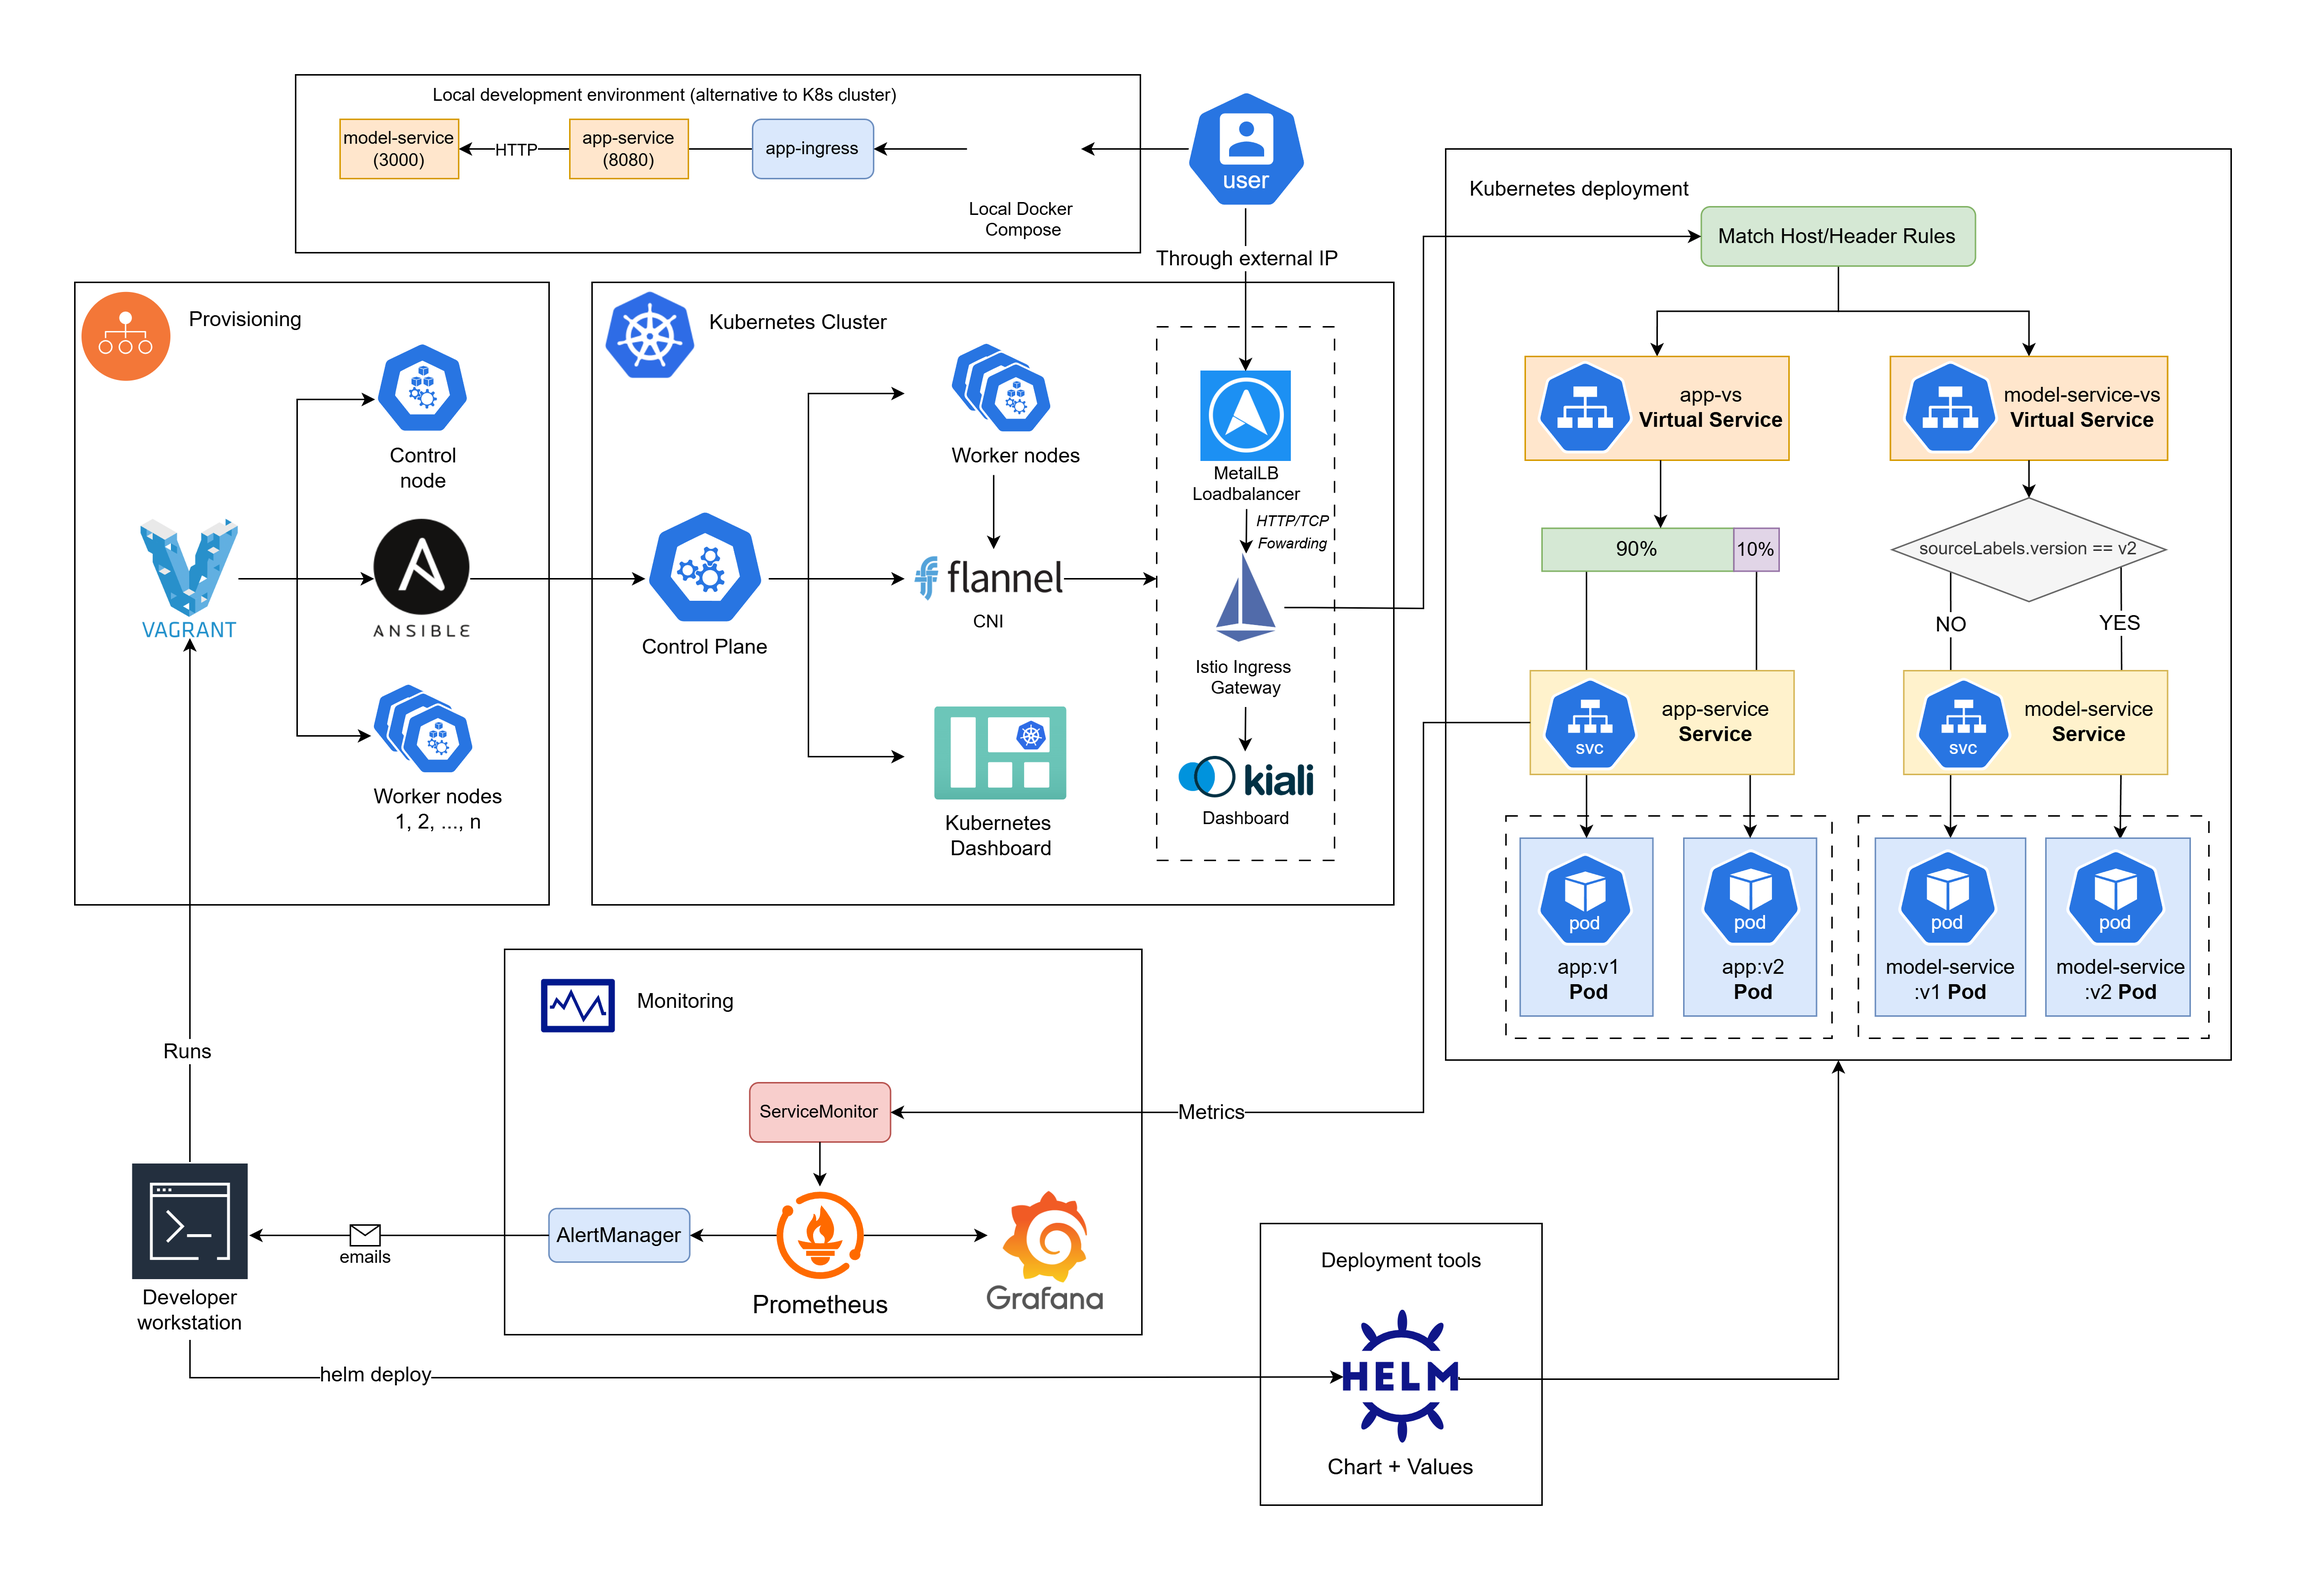
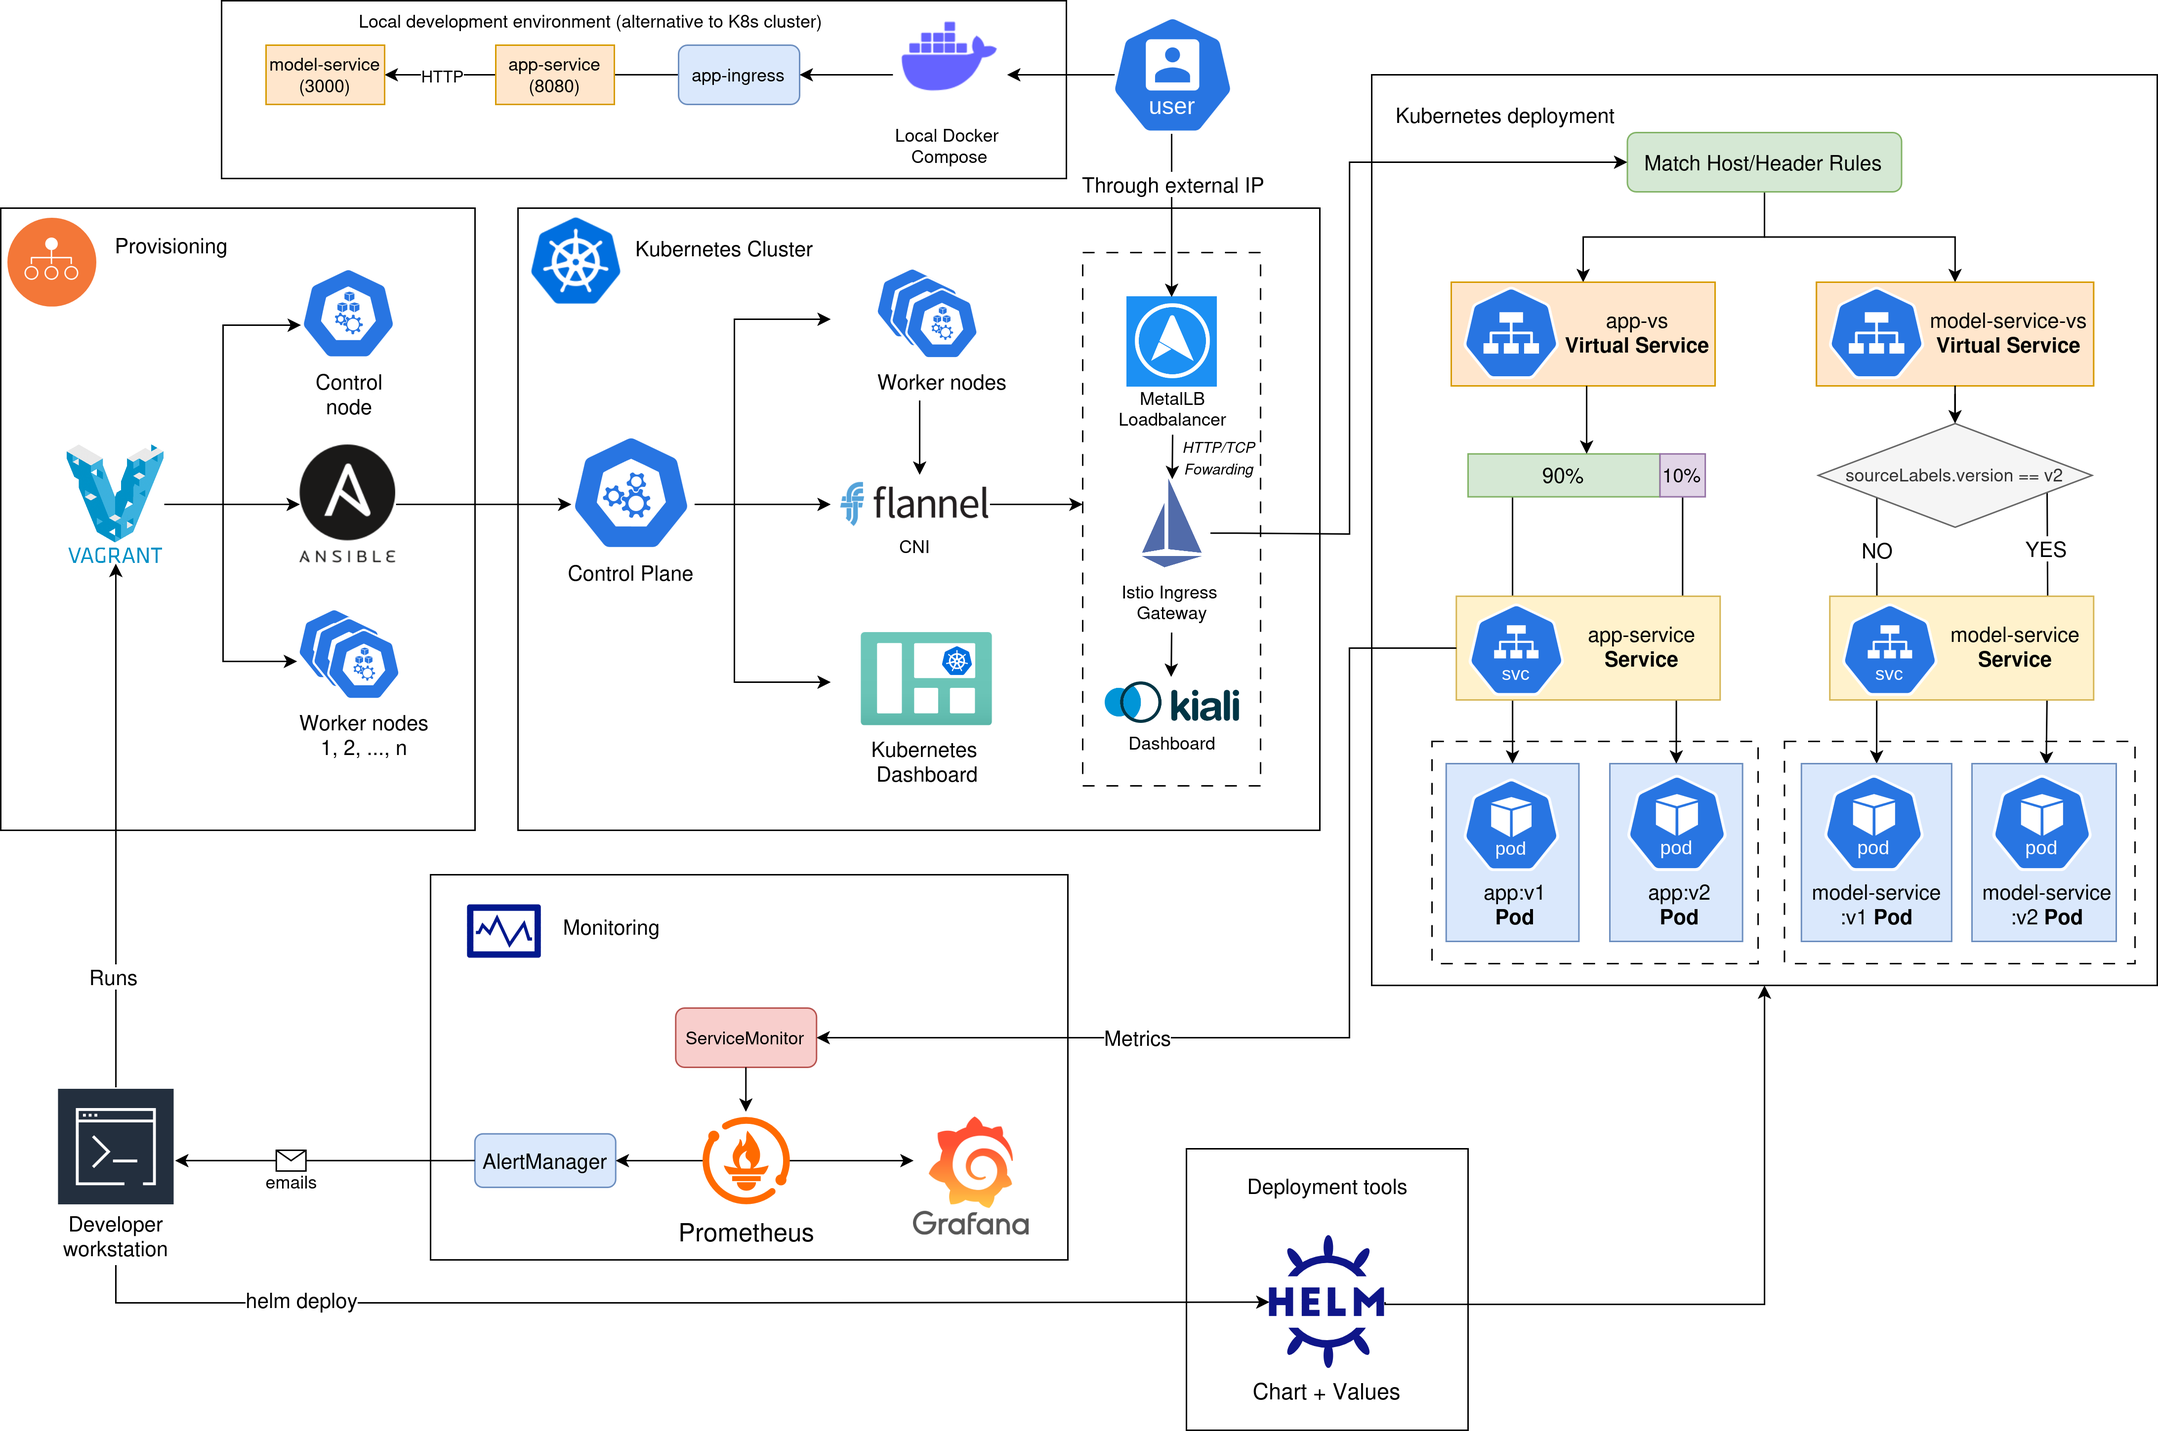
Minor spelling fixes in deployment/extension. Fixed diagram.

diff --git a/docs/deployment.md b/docs/deployment.md
@@ -7,7 +7,7 @@ The application follows a microservice architecture and is deployed on a Kuberne
 
 ![Deployment Architecture Diagram](pics/Deployment-Diagram.png)
 
-**Figure 1:** High level overview of the deployed (relevant) resources. This includes provisioning, KB cluster, and KB deployment, alongside Monitoring and the local Docker-Compose option.
+**Figure 1:** High-level overview of the deployed (relevant) resources. This includes provisioning, KB cluster, and KB deployment, alongside Monitoring and the local Docker-Compose option.
 
 More specifically, the project deployment process consists of the following:
 - **Application Services** The application follows a microservice architecture with the following services:
@@ -16,7 +16,7 @@ More specifically, the project deployment process consists of the following:
 - **Kubernetes Cluster** provisioned with Vagrant and Ansible, and orchestrates all workloads and resources.
 - **Istio Service Mesh** Manages traffic routing and observability. It is the primary gateway for the user through an external IP exposed by MetalLB.
 - **Monitoring Stack**: Enables monitoring with Prometheus, providing visualizations with Grafana, and traffic observability with Kiali.
-- **Local Docker Compose**: Local deployment possibility with Docker Compose
+- **Local Docker Compose**: Local deployment possibility with Docker Compose.
 
 ## 2. Deployment Structure
 

diff --git a/docs/extension.md b/docs/extension.md
@@ -67,7 +67,7 @@ The following metrics will be collected between two conditions:
 * Time (minutes) taken for deployment.
 * Number of manual commands executed.
 * Number of errors (error rate).
-* Qualitative feedback from. contributors.
+* Qualitative feedback from contributors.
 
 ### Method:
 
@@ -82,7 +82,7 @@ We can compare the baseline vs the automated conditions.
     - Configure the `operation` repository to automatically pull and deploy new versions.
     - Perform N release iterations using the automated workflow.
     - Record quantitative and qualitative metrics.
-3. **Analysis**: Compare the metrics between the conditions (average deployment time, command count, error rate). Gather feedback from contributors on perceived effort/efficiency. Document differences in a table and visualize improvement (e.g., bar chart)
+3. **Analysis**: Compare the metrics between the conditions (average deployment time, command count, error rate). Gather feedback from contributors on perceived effort/efficiency. Document differences in a table and visualize improvement (e.g., bar chart).
 
 ### Success criteria (Expected Outcome):
 - Reduced deployment errors and time (~30% reduction).
